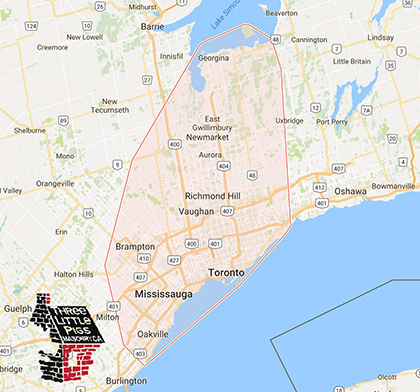
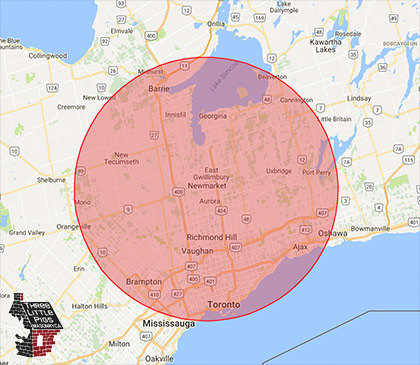
updated service area list and image

diff --git a/components/Contact.js b/components/Contact.js
@@ -5,6 +5,7 @@ import Columns from 'react-columns';
 import RaisedButton from 'material-ui/RaisedButton';
 //import Ionicon from 'react-ionicons';
 
+/* Note: This component should be renamed (is no longer for contact, it's for Service Area) */
 
 const StyledContact = styled.section`
   padding: 5px 0px;
@@ -27,19 +28,19 @@ const StyledArea = styled.div`
   }
   div {
     text-align: center;
-    margin-bottom: 10px;   
-  }  
+    margin-bottom: 10px;
+  }
   img {
     width: 100%;
     border: 1px solid #000;
   }
   a:link, a:visited {
-    color: #c65757 !important; 
+    color: #c65757 !important;
     padding: 0px !important;
   }
   a:hover, a:active {
     color: #d00 !important;
-    padding: 0px !important;     
+    padding: 0px !important;
   }
 `;
 const StyledColumns = styled(Columns)`
@@ -75,9 +76,53 @@ const queries = [{
   query: 'min-width: 1000px',
 }];
 
-/* Note: This component should be renamed (is not longer for contact, and is confusing) */
+// -- old service area list --
+// const serviceAreaList = ['Aurora', 'Bethesda', 'Bradford', 'Brampton', 'Etobicoke', 'Gormley', 'Holland Landing', 'Kettleby', 'King City', 'Maple', 'Markham', 'Mississauga', 'Newmarket', 'Nobleton', 'North York', 'Oak Ridges', 'Oakville', 'Richmond Hill', 'Scarborough', 'Sharon', 'Stouffville', 'Thornhill', 'Toronto', 'Unionville', 'Vandor'];
 
-const serviceAreaList = ['Aurora', 'Bethesda', 'Bradford', 'Brampton', 'Etobicoke', 'Gormley', 'Holland Landing', 'Kettleby', 'King City', 'Maple', 'Markham', 'Mississauga', 'Newmarket', 'Nobleton', 'North York', 'Oak Ridges', 'Oakville', 'Richmond Hill', 'Scarborough', 'Sharon', 'Stouffville', 'Thornhill', 'Toronto', 'Unionville', 'Vandor'];
+const serviceAreaList = [
+  'Ajax',
+  'Angus',
+  'Aurora',
+  'Ballantrae',
+  'Barrie',
+  'Bradford West Gwillimbury',
+  'Brampton',
+  'Caledon',
+  'Cannington',
+  'East Gwillimbury',
+  'Etobicoke',
+  'Georgina',
+  'Gilford Beach',
+  'Glen Major',
+  'Gormley',
+  'Innisfil',
+  'Leaskdale',
+  'Mississauga',
+  'Mt. Albert',
+  'New Tecumseth',
+  'Newmarket',
+  'Newton Robinson',
+  'Nobleton',
+  'North York',
+  'Oakville',
+  'Pickering',
+  'Port Bolster',
+  'Port Perry',
+  'Richmond Hill',
+  'Scarborough',
+  'Schomberg',
+  'Seagrave',
+  'Sonya',
+  'Sunderland',
+  'Toronto',
+  'Udora',
+  'Utica',
+  'Uxbridge',
+  'Vaughan',
+  'Whitby',
+  'Whitchurch-Stouffville',
+  'Zephyr',
+];
 
 const Contact = (props) => {
   const openChat = props.openChat;
